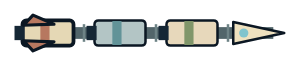
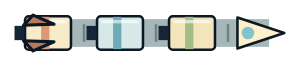
Improve rocket and launch-pad readability across zoom

Changed region(s): [[0.06, 0.2121, 0.96, 0.7879], [0.12, 0.3939, 0.18, 0.6061]]

diff --git a/tests/e2e/rocket-visibility.spec.ts b/tests/e2e/rocket-visibility.spec.ts
@@ -1,0 +1,132 @@
+import { expect, test } from '@playwright/test';
+
+test('축소·확대와 표면 회전에서도 발사대와 로켓을 구분하며 자유 공간에는 발사대가 없다', async ({
+  page,
+}) => {
+  await page.goto('/');
+  const report = await page.evaluate(async () => {
+    const worldPath: string = '/src/render/world.ts';
+    const factoryPath: string = '/src/stages/factory.ts';
+    const spritePath: string = '/src/render/rocket-sprite.ts';
+    const padPath: string = '/src/render/launch-pad.ts';
+    const locatorPath: string = '/src/render/craft-locator.ts';
+    const { drawWorld } = await import(worldPath);
+    const { emptyStage } = await import(factoryPath);
+    const { paintRocket } = await import(spritePath);
+    const { paintLaunchPad } = await import(padPath);
+    const { paintCraftLocator } = await import(locatorPath);
+    const overlay = document.createElement('div');
+    overlay.style.cssText =
+      'position:fixed;inset:0;z-index:100000;background:#142332;display:grid;grid-template-columns:repeat(4,1fr);padding:20px;gap:12px;overflow:auto;color:#eee1bf;font:16px sans-serif';
+    document.body.append(overlay);
+    const padBounds = [];
+    for (const zoom of [15, 60, 150, 350]) {
+      const cell = document.createElement('section');
+      const label = document.createElement('div');
+      label.textContent = `${zoom} px/u · 3단 / 1단 / 분리체`;
+      const canvas = document.createElement('canvas');
+      canvas.width = 310;
+      canvas.height = 320;
+      canvas.style.cssText = 'width:100%;height:320px;border:1px solid #51757b;border-radius:12px';
+      const ctx = canvas.getContext('2d')!;
+      ctx.fillStyle = '#142332';
+      ctx.fillRect(0, 0, 310, 320);
+      for (const [i, count, booster] of [
+        [0, 3, false],
+        [1, 1, false],
+        [2, 1, true],
+      ] as const) {
+        ctx.save();
+        ctx.translate(50, 65 + i * 95);
+        paintLaunchPad(ctx, zoom);
+        paintCraftLocator(ctx, zoom, count, booster);
+        paintRocket(ctx, count, 0, booster, zoom);
+        ctx.restore();
+      }
+      cell.append(label, canvas);
+      overlay.append(cell);
+      const probe = document.createElement('canvas');
+      probe.width = 200;
+      probe.height = 200;
+      const p = probe.getContext('2d')!;
+      p.translate(100, 100);
+      paintLaunchPad(p, zoom);
+      const pixels = p.getImageData(0, 0, 200, 200).data;
+      let minY = 200,
+        maxY = 0,
+        maxX = 0;
+      for (let y = 0; y < 200; y++)
+        for (let x = 0; x < 200; x++) {
+          if (pixels[(y * 200 + x) * 4 + 3] < 128) continue;
+          minY = Math.min(minY, y);
+          maxY = Math.max(maxY, y);
+          maxX = Math.max(maxX, x);
+        }
+      padBounds.push({ zoom, span: maxY - minY + 1, maxX });
+    }
+    // Exercise the real world call site, not only isolated painters.
+    const world = (surface: boolean, angle: number, spawnOnly = false) => {
+      const stage = emptyStage();
+      stage.spawn.placed = true;
+      stage.spawn.position = { x: 0, y: 0 };
+      stage.launchAngle = angle;
+      if (surface) {
+        stage.bodies = [
+          {
+            id: 'earth',
+            name: '지구',
+            kind: 'planet',
+            position: { x: -1.005 * Math.cos(angle), y: -1.005 * Math.sin(angle) },
+            radius: 1,
+            mu: 1,
+            color: '#68978c',
+          },
+        ];
+        stage.launchBodyId = 'earth';
+      }
+      const canvas = document.createElement('canvas');
+      canvas.style.cssText = 'width:310px;height:240px;border:1px solid #51757b;border-radius:12px';
+      const cell = document.createElement('section');
+      const title = document.createElement('div');
+      title.textContent = surface
+        ? `표면 · ${Math.round((angle * 180) / Math.PI)}°`
+        : '자유 공간 · 발사대 없음';
+      cell.append(title, canvas);
+      overlay.append(cell);
+      drawWorld(canvas, {
+        stage,
+        camera: { x: 0, y: 0, zoom: 60 },
+        ...(spawnOnly ? { layer: { kind: 'only', ids: new Set(['spawn']) } } : {}),
+      });
+      return canvas;
+    };
+    world(true, 0);
+    world(true, Math.PI / 2);
+    world(true, Math.PI / 4);
+    world(false, 0);
+    // With all other world layers excluded, only the attached scene may draw
+    // a deck, and all changed pixels must be behind the shared rocket base.
+    const attached = world(true, 0, true),
+      free = world(false, 0, true);
+    const a = attached.getContext('2d')!.getImageData(0, 0, attached.width, attached.height).data;
+    const b = free.getContext('2d')!.getImageData(0, 0, free.width, free.height).data;
+    let differences = 0,
+      frontmost = 0;
+    for (let i = 0; i < a.length; i += 4)
+      if (a.slice(i, i + 4).some((v, j) => v !== b[i + j])) {
+        differences++;
+        frontmost = Math.max(frontmost, (i / 4) % attached.width);
+      }
+    attached.parentElement!.remove();
+    free.parentElement!.remove();
+    return { padBounds, differences, frontmost, base: attached.width / 2 };
+  });
+  for (const b of report.padBounds) {
+    expect(b.span).toBeGreaterThanOrEqual(12);
+    expect(b.maxX).toBeLessThan(100);
+  }
+  expect(report.padBounds[3].span).toBeGreaterThan(report.padBounds[1].span * 4);
+  expect(report.differences).toBeGreaterThan(12);
+  expect(report.frontmost).toBeLessThan(report.base);
+  await page.screenshot({ path: 'test-results/screens/rocket-visibility.png' });
+});

diff --git a/src/render/rocket-sprite.ts b/src/render/rocket-sprite.ts
@@ -20,22 +20,24 @@ export function paintRocket(
     ctx.fill();
   }
   // Couplers keep the assembled stages visibly joined. The capsule contains all artwork.
-  ctx.fillStyle = '#52656a';
-  ctx.fillRect(r * 0.5, -r * 0.28, Math.max(0, size - r * 1.2), r * 0.56);
+  ctx.fillStyle = '#a7b6b8';
+  ctx.fillRect(r * 0.8, -r * 0.66, Math.max(0, size - r * 1.7), r * 1.32);
   // Each stage is an actual segment. The capsule contains every outline and fin.
-  ctx.lineWidth = r * 0.18;
+  ctx.lineWidth = r * 0.12;
   const segment = ROCKET_SEGMENT_LENGTH * zoom;
   for (let i = 0; i < (booster ? 1 : count); i++) {
-    const x = i * segment + r * 0.5,
-      end = (i + 1) * segment - r * 0.5;
-    ctx.fillStyle = ['#e5d8b5', '#b3c5c5', '#e7d8bb'][(firstPart + i) % 3];
+    const x = i * segment + r * 0.62,
+      end = (i + 1) * segment - r * 0.62;
+    ctx.fillStyle = ['#f7ebc9', '#d7e8e8', '#f3e4bc'][(firstPart + i) % 3];
     ctx.strokeStyle = '#0b1723';
     ctx.beginPath();
-    ctx.roundRect(x, -r * 0.6, Math.max(r * 0.3, end - x), r * 1.2, r * 0.18);
+    ctx.roundRect(x, -r * 0.8, Math.max(r * 0.3, end - x), r * 1.6, r * 0.18);
     ctx.fill();
     ctx.stroke();
-    ctx.fillStyle = ['#b77860', '#629398', '#80966a'][(firstPart + i) % 3];
-    ctx.fillRect(x + (end - x) * 0.35, -r * 0.57, (end - x) * 0.18, r * 1.14);
+    ctx.fillStyle = ['#dc9874', '#6eabb5', '#a4bd85'][(firstPart + i) % 3];
+    ctx.fillRect(x + (end - x) * 0.35, -r * 0.77, (end - x) * 0.18, r * 1.54);
+    ctx.fillStyle = '#ffffff99';
+    ctx.fillRect(x + r * 0.2, -r * 0.62, Math.max(0, end - x - r * 0.4), r * 0.16);
     ctx.fillStyle = '#152735';
     ctx.fillRect(i * segment + r * 0.12, -r * 0.34, r * 0.48, r * 0.68);
     ctx.strokeStyle = '#6e8386';
@@ -47,19 +49,19 @@ export function paintRocket(
     ctx.stroke();
   }
   if (!booster) {
-    const x = count * segment + r * 0.25;
-    ctx.fillStyle = '#eee1bf';
+    const x = count * segment + r * 0.45;
+    ctx.fillStyle = '#fff0cc';
     ctx.strokeStyle = '#0b1723';
     ctx.beginPath();
-    ctx.moveTo(x, -r * 0.52);
+    ctx.moveTo(x, -r * 0.74);
     ctx.lineTo(size - r * 0.18, 0);
-    ctx.lineTo(x, r * 0.52);
+    ctx.lineTo(x, r * 0.74);
     ctx.closePath();
     ctx.fill();
     ctx.stroke();
     ctx.fillStyle = '#80c4cd';
     ctx.beginPath();
-    ctx.arc(x + r * 0.5, 0, r * 0.22, 0, 7);
+    ctx.arc(x + r * 0.5, 0, r * 0.3, 0, 7);
     ctx.fill();
   }
   ctx.fillStyle = '#b77860';

diff --git a/src/render/world.ts b/src/render/world.ts
@@ -1,4 +1,6 @@
 import { paintRocket } from './rocket-sprite';
+import { paintLaunchPad } from './launch-pad';
+import { paintCraftLocator } from './craft-locator';
 import { paintGoalRegion } from './goal-region';
 import { paintMarker } from './goal-marker';
 import { paintExhaust } from './exhaust';
@@ -395,16 +397,10 @@ export function drawWorld(canvas: HTMLCanvasElement, s: DrawState) {
   if (!visible('spawn') || (s.stage.spawn.placed === false && !s.run)) return { ctx, w, h };
   const surface = surfaceLaunch(s.stage, t);
   const pad = screen(surface?.position ?? s.stage.spawn.position);
-  ctx.fillStyle = '#8ab5ab';
-  ctx.strokeStyle = '#101e29';
-  ctx.lineWidth = 3;
   ctx.save();
   ctx.translate(pad.x, pad.y);
   ctx.rotate(-(surface?.angle ?? s.stage.launchAngle ?? 0));
-  if (surface) {
-    ctx.fillRect(0, -17, 4, 34);
-    ctx.strokeRect(0, -17, 4, 34);
-  }
+  if (surface) paintLaunchPad(ctx, c.zoom);
   ctx.restore();
   const sprite = (
     position: Vec,
@@ -423,6 +419,7 @@ export function drawWorld(canvas: HTMLCanvasElement, s: DrawState) {
     if (s.replay) ctx.globalAlpha = 0.72;
     ctx.translate(p.x, p.y);
     ctx.rotate(-Math.atan2(direction.y, direction.x));
+    paintCraftLocator(ctx, c.zoom, count, booster, selected);
     paintExhaust(ctx, flame, c.zoom, t, !!s.reducedMotion);
     paintRocket(ctx, count, firstPart, booster, c.zoom);
     if (selected && s.run && !s.run.impact && !s.run.landed && (s.run.rocket?.airborne ?? true)) {
@@ -440,6 +437,7 @@ export function drawWorld(canvas: HTMLCanvasElement, s: DrawState) {
       ctx.save();
       ctx.translate(p.x, p.y);
       ctx.rotate(-Math.atan2(actor.direction.y, actor.direction.x));
+      paintCraftLocator(ctx, c.zoom, 1, true, actor.id === s.controlledId);
       ctx.fillStyle = '#78b5d1';
       ctx.beginPath();
       ctx.roundRect(

diff --git a/tests/rocket-visibility.test.ts b/tests/rocket-visibility.test.ts
@@ -1,0 +1,35 @@
+import { expect, it } from 'vitest';
+import { launchPadShape } from '../src/render/launch-pad';
+import { craftVisibility } from '../src/render/craft-locator';
+import { hullSize } from '../src/world/hull';
+
+it('발사대는 접촉면 뒤에 고정되고 줌에 따라 세계 치수를 따르며 축소 때 최소 식별 폭을 유지한다', () => {
+  let previous = 0;
+  for (const zoom of [15, 30, 60, 120, 240, 350]) {
+    const shape = launchPadShape(zoom);
+    expect(shape.halfSpan * 2).toBeGreaterThanOrEqual(12);
+    expect(shape.front).toBeLessThanOrEqual(0);
+    expect(shape.depth).toBeGreaterThan(0);
+    expect(shape.halfSpan).toBeGreaterThanOrEqual(previous);
+    previous = shape.halfSpan;
+  }
+  expect(launchPadShape(240).halfSpan / launchPadShape(120).halfSpan).toBeCloseTo(2);
+});
+
+it('작은 로켓에는 식별 표시를 보충하고 충분한 확대에서는 사라지며 실제 동체 치수는 바뀌지 않는다', () => {
+  for (const [count, booster] of [
+    [3, false],
+    [1, true],
+    [0, false],
+  ] as const) {
+    const hull = hullSize(count, booster),
+      small = craftVisibility(15, count, booster),
+      large = craftVisibility(350, count, booster);
+    expect(small.locatorOpacity).toBe(1);
+    expect(large.locatorOpacity).toBe(0);
+    expect(small.physicalLength).toBe(hull.length * 15);
+    expect(small.physicalWidth).toBe(hull.radius * 2 * 15);
+    expect(large.physicalWidth).toBe(hull.radius * 2 * 350);
+  }
+  expect(craftVisibility(90, 3).locatorOpacity).toBeLessThan(craftVisibility(60, 3).locatorOpacity);
+});

diff --git a/src/render/craft-locator.ts b/src/render/craft-locator.ts
@@ -1,0 +1,49 @@
+import { hullSize } from '../world/hull';
+
+export function craftVisibility(zoom: number, count: number, booster = false) {
+  const hull = hullSize(count, booster);
+  const physicalWidth = hull.radius * 2 * zoom;
+  return {
+    physicalLength: hull.length * zoom,
+    physicalWidth,
+    locatorOpacity: Math.max(0, Math.min(1, (9 - physicalWidth) / 5)),
+  };
+}
+
+/** A navigation bracket, not an enlarged physical hull. Draw in the rotated
+ * craft frame in screen pixels, behind the sprite and all DOM controls. */
+export function paintCraftLocator(
+  ctx: CanvasRenderingContext2D,
+  zoom: number,
+  count: number,
+  booster = false,
+  selected = false,
+) {
+  const { physicalLength, physicalWidth, locatorOpacity } = craftVisibility(zoom, count, booster);
+  if (!locatorOpacity) return;
+  ctx.save();
+  ctx.globalAlpha *= locatorOpacity;
+  ctx.translate(physicalLength / 2, 0);
+  const x = Math.max(10, physicalLength / 2 + 5),
+    y = Math.max(6, physicalWidth / 2 + 3);
+  ctx.lineJoin = 'round';
+  ctx.beginPath();
+  for (const sign of [-1, 1]) {
+    ctx.moveTo(-x + 4, sign * y);
+    ctx.lineTo(-x, sign * y);
+    ctx.lineTo(-x, sign * (y - 3));
+    ctx.moveTo(x - 4, sign * y);
+    ctx.lineTo(x, sign * y);
+    ctx.lineTo(x, sign * (y - 3));
+  }
+  ctx.moveTo(x + 3, -3);
+  ctx.lineTo(x + 6, 0);
+  ctx.lineTo(x + 3, 3);
+  ctx.strokeStyle = '#0b1723';
+  ctx.lineWidth = 3.5;
+  ctx.stroke();
+  ctx.strokeStyle = selected ? '#ffcf73' : booster ? '#b7cebe' : '#e9dfbc';
+  ctx.lineWidth = 1.3;
+  ctx.stroke();
+  ctx.restore();
+}

diff --git a/src/render/launch-pad.ts b/src/render/launch-pad.ts
@@ -1,0 +1,19 @@
+/** Deck coordinates in the craft's frame: +X is outward, X=0 is contact.
+ * Physical scale follows zoom; only a small readability floor is screen-sized. */
+export function launchPadShape(zoom: number) {
+  return { halfSpan: Math.max(6, zoom * 0.12), depth: Math.max(1.3, zoom * 0.02), front: 0 };
+}
+
+export function paintLaunchPad(ctx: CanvasRenderingContext2D, zoom: number) {
+  const { halfSpan, depth, front } = launchPadShape(zoom);
+  ctx.save();
+  ctx.fillStyle = '#142b34';
+  ctx.fillRect(front - depth, -halfSpan, depth, halfSpan * 2);
+  // Fill instead of a centred stroke: nothing protrudes into the rocket base.
+  ctx.fillStyle = '#b3dfcb';
+  ctx.fillRect(front - Math.min(depth, 1.5), -halfSpan, Math.min(depth, 1.5), halfSpan * 2);
+  ctx.fillStyle = '#5e998e';
+  for (const side of [-1, 1])
+    ctx.fillRect(front - depth * 1.7, side * halfSpan - depth * 0.3, depth, depth * 0.6);
+  ctx.restore();
+}
